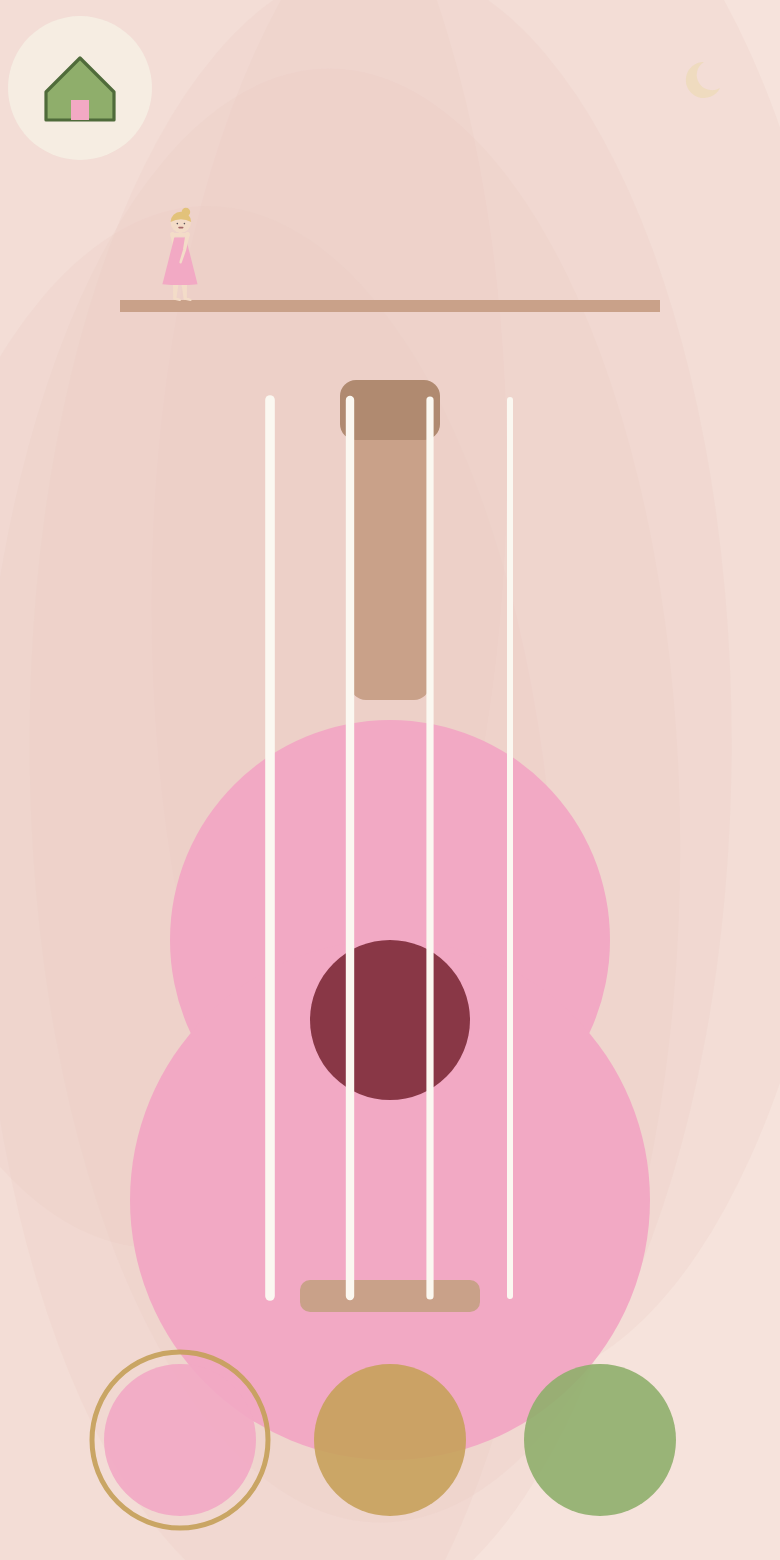
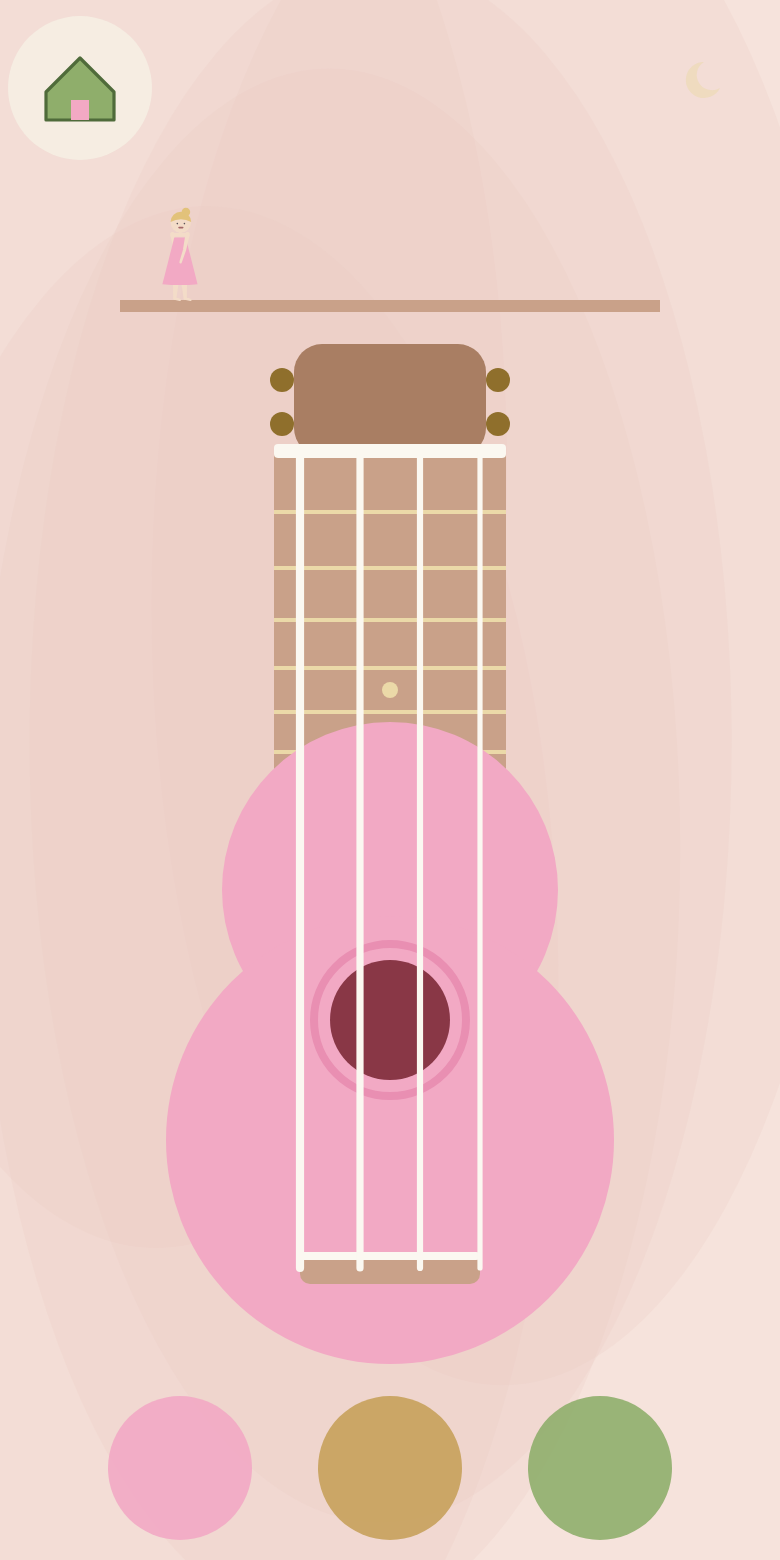
Ukulele com cara de ukulele: afinação sol-dó-mi-lá, corpo em oito e o toque certo na casa (#11)
Na casa, a área de toque do ukulele e a da lira se sobrepunham e a lira,
desenhada por cima, abria no lugar do ukulele. Agora cada um tem a sua
área, lado a lado, sem sobreposição; o ukulele da parede ganhou o corpo em
oito.

Na tela do ukulele: a afinação padrão (sol4, dó4, mi4, lá4) vira constante
exportada; sem botão apertado as cordas soam soltas, e ao entrar elas
tocam uma a uma. Os três acordes (dó, fá, sol7) seguem nas posições de
verdade, e um teste garante que cada nota é a corda solta ou até três
casas acima. O desenho ganhou cravelhas, trastes, cintura, roseta e as
cordas dentro do braço.

Claude-Session: https://claude.ai/code/session_01PxTCmfJwGgx6HcGFKmu6Gi

Changed region(s): [[0.0923, 0.2154, 0.8615, 1.0]]

diff --git a/src/telas/ukulele.ts b/src/telas/ukulele.ts
@@ -8,63 +8,100 @@ import { pararFundo } from '@/audio/musica';
 import { lira } from '@/audio/synth';
 import type { Tela } from '@/core/roteador';
 
-/** três acordes, três cores: as notas de cada corda (sol, dó, mi, lá) em cada acorde */
-export const ACORDES: { cor: string; notas: number[] }[] = [
-  { cor: '#f2a9c4', notas: [67, 60, 64, 72] },
-  { cor: '#c6a15b', notas: [69, 60, 65, 69] },
-  { cor: '#8fae6b', notas: [67, 62, 65, 71] },
-];
-const CORDAS_X = [135, 175, 215, 255];
+/**
+ * A afinação padrão do ukulele, da corda de cima para a de baixo: sol4, dó4,
+ * mi4, lá4 (a primeira corda é a mais aguda das três primeiras: afinação
+ * reentrante, o "my dog has fleas"). Solta, cada corda soa nessa nota.
+ */
+export const AFINACAO = [67, 60, 64, 69];
+/** quantas casas, no máximo, um dedo de cinco anos aperta */
+export const CASAS = 3;
 
 /**
- * O ukulele rosa: passar o dedo nas quatro cordas dá um acorde (corda
- * dedilhada, Karplus-Strong). Três botões grandes de cor trocam o acorde. As
- * bonecas da estante balançam. Nenhuma combinação soa feia.
+ * Três acordes, três cores: dó maior, fá maior e sol com sétima, nas posições
+ * de verdade do ukulele (cada nota é a corda solta ou até três casas acima).
+ */
+export const ACORDES: { nome: string; cor: string; notas: number[] }[] = [
+  { nome: 'dó', cor: '#f2a9c4', notas: [67, 60, 64, 72] },
+  { nome: 'fá', cor: '#c6a15b', notas: [69, 60, 65, 69] },
+  { nome: 'sol', cor: '#8fae6b', notas: [67, 62, 65, 71] },
+];
+const CORDAS_X = [150, 180, 210, 240];
+const PESTANA_Y = 226;
+const CAVALETE_Y = 634;
+const CORDA_COR = '#fbf8f1';
+const MADEIRA = '#c9a189';
+const MADEIRA_ESCURA = '#a97e63';
+const ROSA = '#f2a9c4';
+const ROSA_ESCURO = '#e98fb2';
+
+/**
+ * O ukulele rosa: quatro cordas afinadas em sol, dó, mi, lá. Passar o dedo
+ * nas cordas soltas dá o som da afinação; um dos três botões de cor aperta um
+ * acorde (corda dedilhada, Karplus-Strong). As bonecas da estante balançam.
+ * Nenhuma combinação soa feia.
  */
 export function telaUkulele(): Tela {
   const e = estado();
   let s = `<rect width="390" height="780" fill="#f6e3dc"/>` + veu(0, 0, 390, 780, '#ebcdc3', 5, 0.25);
-  s += `<rect x="60" y="150" width="270" height="6" fill="#c9a189"/>`;
+  s += `<rect x="60" y="150" width="270" height="6" fill="${MADEIRA}"/>`;
   for (let i = 0; i < Math.min(e.bonecas, 5); i++) s += `<g class="boneca">${familia.boneca(90 + i * 54, 150, 44, i, figurinoDe(e.figurinos[String(i)])).svg}</g>`;
-  /* o corpo do ukulele: dois círculos, o braço, a boca */
-  s += `<rect x="175" y="200" width="40" height="150" rx="8" fill="#c9a189"/><rect x="170" y="190" width="50" height="30" rx="8" fill="#b08a70"/>`;
-  s += `<circle cx="195" cy="470" r="110" fill="#f2a9c4"/><circle cx="195" cy="600" r="130" fill="#f2a9c4"/><circle cx="195" cy="510" r="40" fill="#6e1a27" opacity="0.8"/>`;
-  s += `<rect x="150" y="640" width="90" height="16" rx="5" fill="#c9a189"/>`;
+  /* a mão do ukulele: quatro cravelhas, duas de cada lado */
+  s += `<rect x="147" y="172" width="96" height="56" rx="14" fill="${MADEIRA_ESCURA}"/>`;
+  [190, 212].forEach((y) => {
+    s += `<circle cx="141" cy="${y}" r="6" fill="#8f6f2c"/><circle cx="249" cy="${y}" r="6" fill="#8f6f2c"/>`;
+  });
+  /* o braço com os trastes, e a pestana */
+  s += `<rect x="137" y="222" width="116" height="250" rx="6" fill="${MADEIRA}"/>`;
+  [256, 284, 310, 334, 356, 376].forEach((y) => {
+    s += `<line x1="137" y1="${y}" x2="253" y2="${y}" stroke="#ebd9a8" stroke-width="2"/>`;
+  });
+  s += `<circle cx="195" cy="345" r="4" fill="#ebd9a8"/>`;
+  s += `<rect x="137" y="${PESTANA_Y - 4}" width="116" height="7" rx="2" fill="#fbf8f1"/>`;
+  /* o corpo em oito, com cintura: a boca redonda com a roseta, e o cavalete */
+  s += `<circle cx="195" cy="445" r="84" fill="${ROSA}"/><circle cx="195" cy="570" r="112" fill="${ROSA}"/>`;
+  s += `<circle cx="195" cy="510" r="38" fill="none" stroke="${ROSA_ESCURO}" stroke-width="4"/><circle cx="195" cy="510" r="30" fill="#6e1a27" opacity="0.8"/>`;
+  s += `<rect x="150" y="${CAVALETE_Y - 6}" width="90" height="14" rx="5" fill="${MADEIRA}"/><rect x="150" y="${CAVALETE_Y - 8}" width="90" height="4" rx="2" fill="#fbf8f1"/>`;
   CORDAS_X.forEach((x, i) => {
-    s += `<line class="corda" data-corda="${i}" x1="${x}" y1="200" x2="${x}" y2="648" stroke="#fbf8f1" stroke-width="${3 + (3 - i) * 0.6}" stroke-linecap="round"/>`;
+    s += `<line class="corda" data-corda="${i}" x1="${x}" y1="${PESTANA_Y}" x2="${x}" y2="${CAVALETE_Y}" stroke="${CORDA_COR}" stroke-width="${2.6 + (3 - i) * 0.5}" stroke-linecap="round"/>`;
   });
   /* os botões dos acordes */
   ACORDES.forEach((a, i) => {
-    s += `<g data-acorde="${i}"><circle cx="${90 + i * 105}" cy="720" r="38" fill="${a.cor}" opacity="0.9"/></g>`;
+    s += `<g data-acorde="${i}"><circle cx="${90 + i * 105}" cy="734" r="36" fill="${a.cor}" opacity="0.9"/></g>`;
   });
-  s += `<g class="luz">${contornoLuz(90, 720, 44, 44)}</g>`;
+  s += `<g class="luz"></g>`;
   const tela = telaSvg(s, { casinha: () => void ir('casa'), lua: true });
   const svg = tela.svg;
   pararFundo();
-  let acorde = 0;
+  /* sem botão apertado, as cordas soam soltas: a afinação */
+  let acorde = -1;
   const luz = svg.querySelector('.luz') as SVGGElement;
+  const notas = () => (acorde < 0 ? AFINACAO : ACORDES[acorde]!.notas);
+  const cor = () => (acorde < 0 ? ROSA_ESCURO : ACORDES[acorde]!.cor);
 
   const soa = (i: number) => {
-    lira(ACORDES[acorde]!.notas[i]!, undefined, 0.45);
+    lira(notas()[i]!, undefined, 0.45);
     const c = svg.querySelector(`[data-corda="${i}"]`) as SVGElement;
     c.style.transition = 'none';
-    c.setAttribute('stroke', ACORDES[acorde]!.cor);
-    void esperar(160).then(() => c.setAttribute('stroke', '#fbf8f1'));
+    c.setAttribute('stroke', cor());
+    void esperar(160).then(() => c.setAttribute('stroke', CORDA_COR));
     svg.querySelectorAll('.boneca').forEach((b, k) => {
       mover(b, 0, -4, 120 + k * 30);
       void esperar(160 + k * 30).then(() => mover(b, 0, 0, 260));
     });
   };
-  tela.aoDestruir(dedilhar(svg, CORDAS_X, [200, 650], soa));
+  tela.aoDestruir(dedilhar(svg, CORDAS_X, [PESTANA_Y, 660], soa));
   tela.alvo(
     '[data-acorde]',
     (_ev, el) => {
       acorde = Number(el.getAttribute('data-acorde'));
-      luz.innerHTML = contornoLuz(90 + acorde * 105, 720, 44, 44);
-      /* o acorde inteiro soa uma vez, de baixo para cima */
+      luz.innerHTML = contornoLuz(90 + acorde * 105, 734, 42, 42);
+      /* o acorde inteiro soa uma vez, de cima para baixo */
       ACORDES[acorde]!.notas.forEach((_n, i) => void esperar(i * 70).then(() => soa(i)));
     },
     true,
   );
+  /* ao entrar, as cordas soltas uma a uma: sol, dó, mi, lá */
+  void esperar(400).then(() => AFINACAO.forEach((_n, i) => void esperar(i * 160).then(() => soa(i))));
   return tela;
 }

diff --git a/src/telas/casa.ts b/src/telas/casa.ts
@@ -95,8 +95,8 @@ export function telaCasa(): Tela {
     s += `<text x="${hx + 78 + (i % 5) * 20}" y="${y1 + 34 + Math.floor(i / 5) * 22}" font-family="Jost, sans-serif" font-size="20" font-weight="500" fill="#f2a9c4">${l}</text>`;
   });
   /* o ukulele e a lira na parede, o envelope do bilhetinho na porta do quarto */
-  if (aberto(s7, 'ukulele')) s += `<g data-alvo="ukulele"><circle cx="${hx + 82}" cy="${y1 + 80}" r="30" fill="transparent"/><rect x="${hx + 79}" y="${y1 + 60}" width="6" height="20" rx="2" fill="#c9a189"/><circle cx="${hx + 82}" cy="${y1 + 86}" r="10" fill="#f2a9c4"/><circle cx="${hx + 82}" cy="${y1 + 84}" r="3" fill="#6e1a27" opacity="0.6"/></g>`;
-  if (aberto(s7, 'lira')) s += `<g data-alvo="lira"><circle cx="${hx + 118}" cy="${y1 + 80}" r="30" fill="transparent"/><path d="M${hx + 108} ${y1 + 96}V${y1 + 74}a10 10 0 0 1 20 0v22" fill="none" stroke="#c9a189" stroke-width="3"/><path d="M${hx + 112} ${y1 + 70}v24M${hx + 118} ${y1 + 68}v28M${hx + 124} ${y1 + 70}v24" stroke="#c6a15b" stroke-width="1"/></g>`;
+  if (aberto(s7, 'ukulele')) s += `<g data-alvo="ukulele"><rect x="${hx + 62}" y="${y1 + 54}" width="38" height="48" fill="transparent"/><rect x="${hx + 79}" y="${y1 + 58}" width="6" height="22" rx="2" fill="#c9a189"/><rect x="${hx + 78}" y="${y1 + 56}" width="8" height="6" rx="2" fill="#a97e63"/><circle cx="${hx + 82}" cy="${y1 + 82}" r="6.5" fill="#f2a9c4"/><circle cx="${hx + 82}" cy="${y1 + 91}" r="8.5" fill="#f2a9c4"/><circle cx="${hx + 82}" cy="${y1 + 86}" r="2.5" fill="#6e1a27" opacity="0.6"/></g>`;
+  if (aberto(s7, 'lira')) s += `<g data-alvo="lira"><rect x="${hx + 100}" y="${y1 + 54}" width="40" height="48" fill="transparent"/><path d="M${hx + 108} ${y1 + 96}V${y1 + 74}a10 10 0 0 1 20 0v22" fill="none" stroke="#c9a189" stroke-width="3"/><path d="M${hx + 112} ${y1 + 70}v24M${hx + 118} ${y1 + 68}v28M${hx + 124} ${y1 + 70}v24" stroke="#c6a15b" stroke-width="1"/></g>`;
   if (aberto(s7, 'bilhete') && e.letras.length > 0) s += `<g data-alvo="bilhete"><circle cx="${hx + 39}" cy="${y1 + 110}" r="26" fill="transparent"/><rect x="${hx + 27}" y="${y1 + 102}" width="24" height="16" rx="2" fill="#fbf8f1" stroke="#c6a15b"/><path d="M${hx + 27} ${y1 + 102}l12 9l12 -9" fill="none" stroke="#c6a15b"/></g>`;
   /* o pote de pedrinhas no chão do quarto, e as medalhas de feltro na parede da sala */
   if (e.pais.pedrinhas) {

diff --git a/tests/aventuras.test.ts b/tests/aventuras.test.ts
@@ -2,7 +2,7 @@ import { describe, expect, it } from 'vitest';
 import { ARVORE } from '@/telas/arvoregrande';
 import { LAGO, posicaoNaFaixa, proximoEncontro, type Faixa } from '@/telas/lago';
 import { beatsDosObstaculos } from '@/telas/jardim';
-import { ACORDES } from '@/telas/ukulele';
+import { ACORDES, AFINACAO, CASAS } from '@/telas/ukulele';
 
 describe('a Árvore Grande', () => {
   it('as pinhas chegam no tempo forte, e menos nas primeiras aventuras', () => {
@@ -42,11 +42,23 @@ describe('o Lago dos Cisnes', () => {
 });
 
 describe('o ukulele', () => {
+  it('tem quatro cordas, afinadas em sol, dó, mi e lá (a afinação padrão, reentrante)', () => {
+    expect(AFINACAO).toEqual([67, 60, 64, 69]);
+  });
   it('cada acorde tem quatro cordas e só notas do tom: nenhuma combinação soa feia', () => {
     const doMaior = new Set([0, 2, 4, 5, 7, 9, 11]);
     for (const a of ACORDES) {
       expect(a.notas).toHaveLength(4);
       for (const n of a.notas) expect(doMaior.has(n % 12)).toBe(true);
+    }
+  });
+  it('cada nota de acorde é a corda solta ou poucas casas acima: posições de ukulele de verdade', () => {
+    for (const a of ACORDES) {
+      a.notas.forEach((n, i) => {
+        const casa = n - AFINACAO[i]!;
+        expect(casa).toBeGreaterThanOrEqual(0);
+        expect(casa).toBeLessThanOrEqual(CASAS);
+      });
     }
   });
 });

diff --git a/docs/decisoes.md b/docs/decisoes.md
@@ -89,7 +89,7 @@ continua sendo um contador disfarçado; o canteiro já recompensa).
 | O Lago dos Cisnes | Cinco faixas de vitórias-régias e cisnes que vão e voltam (nunca somem pela beirada). Toque = pular para a frente, e o pulo espera a plataforma chegar. Caiu na água? O Theo pesca com a rede, sem perder nada. Cada travessia acende uma luz do coreto. Abre depois da segunda aventura. Música: a Dança dos pequenos cisnes. | `src/telas/lago.ts` |
 | A porta | Com mais de uma aventura aberta, três figuras (coelhinho, pinha com o gatinho, cisne) para escolher; a do dia brilha e vai sozinha depois de 14 s. | `src/telas/casa.ts` |
 | Espanhol | A Estrellita (a primeira boneca da estante) diz o outro nome das coisas: nas palavras em destaque, na comidinha, na horta e no palco (às vezes conta a entrada em espanhol, e diz "¡Muy bien!"). Entra sozinho com três letras traçadas, ou como os pais mandarem. Gravação `es_<id>` se houver; senão, a voz do aparelho em espanhol; sem voz, silêncio. | `src/audio/espanhol.ts`, `src/data/espanhol.json` |
-| Ukulele | Quatro cordas para dedilhar (Karplus-Strong), três acordes em três cores. As bonecas balançam. | `src/telas/ukulele.ts` |
+| Ukulele | Quatro cordas para dedilhar (Karplus-Strong), afinadas em sol, dó, mi, lá: soltas, dão a afinação; três botões de cor apertam dó, fá e sol7 nas posições de verdade. Corpo rosa em oito, com cintura, cravelhas e trastes. As bonecas balançam. | `src/telas/ukulele.ts` |
 | Lira | Sete cordas na pentatônica, pendurada na parede do quarto. | `src/telas/lira.ts` |
 | Vestir bonecas | Roupa, cabelo e gorro por cores; a Estrellita só troca o gorro. Tocar na Stella leva a boneca escolhida no bolso do tutu: ela assiste ao palco da coxia. | `src/telas/bonecas.ts` |
 | Bilhetinho | As letras que ela sabe são carimbos; vão para o papel rosa; ela entrega para a mãe, o pai ou o Theo, que lê em voz alta (a voz do aparelho lê letra a letra e depois junto) e abraça. Os pais veem os bilhetes no cantinho. | `src/telas/bilhete.ts` |

diff --git a/SPEC.md b/SPEC.md
@@ -561,9 +561,11 @@ A escrita fica em português. Espanhol é para ouvir e falar, não para traçar.
   simples (*Brilha, brilha estrelinha*, *Estrellita*, *Ciranda cirandinha*). A melodia espera
   por ela; tecla "errada" também soa bonita.
 
-**Ukulele rosa** na parede. Passar o dedo nas 4 cordas dá um acorde (corda dedilhada
-sintetizada, algoritmo Karplus-Strong, sem arquivo de áudio). Três acordes, três cores de
-botão grande para ela acompanhar o piano ou a canção. Nas aventuras, um acorde abre as flores
+**Ukulele rosa** na parede, com o corpo em oito e as 4 cordas afinadas em sol, dó, mi, lá (a
+afinação padrão). Passar o dedo nas cordas soltas dá a afinação; um botão de cor dá um acorde
+(corda dedilhada sintetizada, algoritmo Karplus-Strong, sem arquivo de áudio). Três acordes
+(dó, fá, sol7, nas posições de verdade), três cores de botão grande para ela acompanhar o
+piano ou a canção. Nas aventuras, um acorde abre as flores
 do jardim.
 
 **Bonecas** na estante do quarto, que é a coleção dela.
